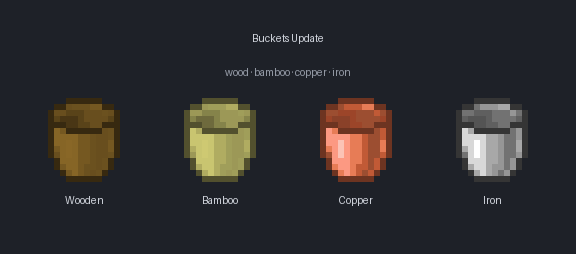
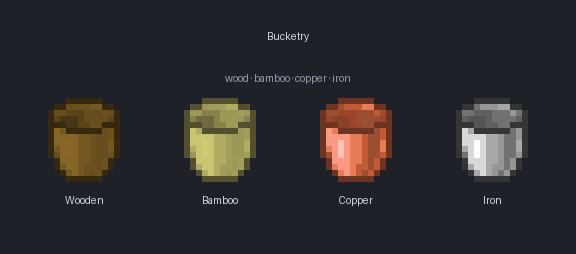
feat: rebrand display name to "Bucketry"
The public/brand name is now "Bucketry" (the mod_id stays buckets_update — a
technical identifier — so registry IDs, asset paths and the repo are unchanged,
keeping save compatibility).

Changes the display name everywhere it surfaces: mod_name Gradle property
(→ mods.toml displayName + fabric.mod.json name), the creative-tab label and the
advancements root/tab title across all 30 langs, the banner image, and the docs
(README, PRESENTATION, CLAUDE). Also refreshes the now-accurate mod descriptions
(they still mentioned the long-removed oxidation/waxed mechanics).

Changed region(s): [[0.375, 0.2756, 0.625, 0.3307], [0.4375, 0.1102, 0.5625, 0.1654]]

diff --git a/tools/render_docs_images.py b/tools/render_docs_images.py
@@ -66,8 +66,8 @@ def render_banner() -> None:
     h = pad + title_h + px + label_h + pad
     img = Image.new("RGBA", (w, h), BG)
     d = ImageDraw.Draw(img)
-    _center_text(d, w // 2, pad - 4, "Buckets Update", _font(34), TEXT)
-    _center_text(d, w // 2, pad + 30, "wood · bamboo · copper · iron", _font(16), SUBTEXT)
+    _center_text(d, w // 2, pad - 6, "Bucketry", _font(42), TEXT)
+    _center_text(d, w // 2, pad + 36, "wood · bamboo · copper · iron", _font(16), SUBTEXT)
     y = pad + title_h
     for i, (tex, label) in enumerate(tiers):
         x = pad + i * (px + gap)

diff --git a/fabric/src/main/java/com/bucketsupdate/fabric/BucketsUpdateFabric.java b/fabric/src/main/java/com/bucketsupdate/fabric/BucketsUpdateFabric.java
@@ -16,6 +16,6 @@ public class BucketsUpdateFabric implements ModInitializer {
 
         MilkEvents.register();
 
-        LOGGER.info("Buckets Update (Fabric) initialised");
+        LOGGER.info("Bucketry (Fabric) initialised");
     }
 }

diff --git a/fabric/src/main/java/com/bucketsupdate/fabric/client/BucketsUpdateFabricClient.java b/fabric/src/main/java/com/bucketsupdate/fabric/client/BucketsUpdateFabricClient.java
@@ -6,6 +6,6 @@ import net.fabricmc.api.ClientModInitializer;
 public class BucketsUpdateFabricClient implements ClientModInitializer {
     @Override
     public void onInitializeClient() {
-        BucketsUpdateFabric.LOGGER.info("Buckets Update (Fabric) client setup");
+        BucketsUpdateFabric.LOGGER.info("Bucketry (Fabric) client setup");
     }
 }

diff --git a/neoforge/src/main/java/com/bucketsupdate/BucketsUpdate.java b/neoforge/src/main/java/com/bucketsupdate/BucketsUpdate.java
@@ -23,6 +23,6 @@ public class BucketsUpdate {
         NeoForge.EVENT_BUS.register(BucketEvents.class);
         NeoForge.EVENT_BUS.register(MilkEvents.class);
 
-        LOGGER.info("Buckets Update initialised");
+        LOGGER.info("Bucketry initialised");
     }
 }

diff --git a/tests/validate.py b/tests/validate.py
@@ -1,4 +1,4 @@
-"""Resource validator for Buckets Update — Levels 1 + 3 of the test pyramid.
+"""Resource validator for Bucketry — Levels 1 + 3 of the test pyramid.
 
 Runs purely-Python checks across both loader trees (neoforge/, fabric/).
 Designed to fail fast and produce a clear summary so a non-Java reader can

diff --git a/tools/textures.py b/tools/textures.py
@@ -1,5 +1,5 @@
 """
-Shared palette logic and texture generation for Buckets Update.
+Shared palette logic and texture generation for Bucketry.
 
 Single source of truth for what colour each bucket variant should use.
 Both `tools/regenerate.py` (re-derives textures from vanilla) and

diff --git a/CLAUDE.md b/CLAUDE.md
@@ -1,4 +1,6 @@
-# Buckets Update — repo guide for AI iteration
+# Bucketry — repo guide for AI iteration
+
+> Brand/display name is **Bucketry**; the technical `mod_id` remains `buckets_update` (registry IDs, asset paths, repo). Don't conflate the two.
 
 **Local path:** `~/Dev/mods/minecraft-revamp/buckets_update/` (sibling repos for the Minecraft Revamp collective live under `~/Dev/mods/minecraft-revamp/`).
 
@@ -110,7 +112,7 @@ The vanilla iron bucket recipe is replaced by ours (a row of 3 iron chains acros
 30 language files under `src/main/resources/assets/buckets_update/lang/`. `en_us.json` is the canonical source — MC falls back to it for any missing key.
 
 Translation keys:
-- `itemGroup.buckets_update.main` — creative tab label (kept as `"Buckets Update"` untranslated for branding)
+- `itemGroup.buckets_update.main` — creative tab label (kept as `"Bucketry"` untranslated for branding; the advancements root title is also `"Bucketry"` so the progress tab carries the mod name)
 - `item.buckets_update.<id>` — item display names (incl. bamboo family + `copper_powder_snow_bucket`)
 - `item.buckets_update.bucket.water_only` — overlay msg when trying to fill a bucket from a non-water source (powder snow is exempt on copper)
 - `advancements.buckets_update.craft_{wooden,copper}.description` — name the recipe shape, so they change when the recipe changes

diff --git a/PRESENTATION.md b/PRESENTATION.md
@@ -1,8 +1,8 @@
 <div align="center">
 
-# 🪣 Buckets Update
+# 🪣 Bucketry
 
-![Buckets Update — wood, bamboo, copper, iron](docs/images/banner.png)
+![Bucketry — wood, bamboo, copper, iron](docs/images/banner.png)
 
 **The bucket progression vanilla never finished.**
 
@@ -20,7 +20,7 @@
 
 ## Why this mod
 
-Vanilla has exactly one bucket. You either have iron, or you have nothing — there's no early-game bucket and no reason to ever craft a second kind. Buckets Update fills that one missing piece with a small, readable **tier ladder** that looks like it could have shipped with the base game: wood early, bamboo as a sturdier wooden alternative, copper as a permanent mid-tier, and iron unchanged except for a recipe tweak that frees up the wooden-bowl shape.
+Vanilla has exactly one bucket. You either have iron, or you have nothing — there's no early-game bucket and no reason to ever craft a second kind. Bucketry fills that one missing piece with a small, readable **tier ladder** that looks like it could have shipped with the base game: wood early, bamboo as a sturdier wooden alternative, copper as a permanent mid-tier, and iron unchanged except for a recipe tweak that frees up the wooden-bowl shape.
 
 No HUD spam, no menus, no new ores. Just buckets that behave the way you'd expect.
 

diff --git a/README.md b/README.md
@@ -1,6 +1,6 @@
-# Buckets Update
+# Bucketry
 
-![Buckets Update — wood, bamboo, copper, iron](docs/images/banner.png)
+![Bucketry — wood, bamboo, copper, iron](docs/images/banner.png)
 
 Refresh the Minecraft bucket family with a vanilla-first tier ladder — a cheap wooden bucket, a tougher bamboo one, and a permanent copper one that sits between wood and iron.
 